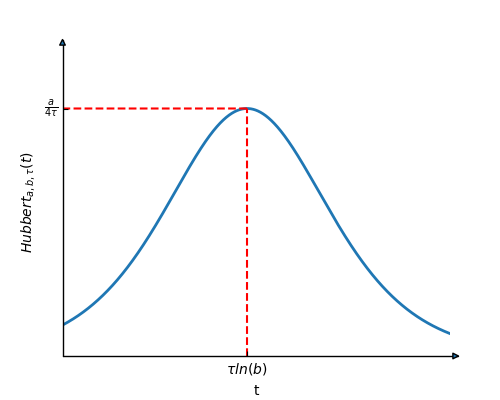
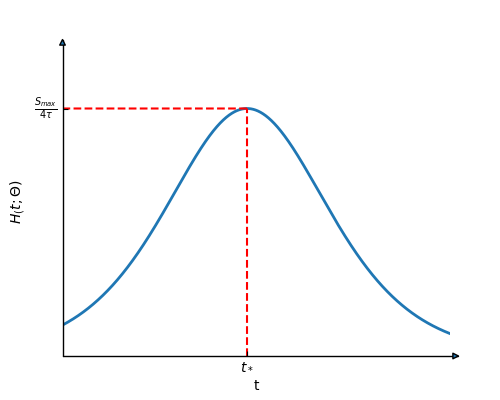
illustrations, encore et toujours
- n sigmoides
- légende corrigée et uniformisée
- test des performances sur données bruitées modifié pour que le bruit soit proportionnel à Smax

diff --git a/python/test_functions.py b/python/test_functions.py
@@ -55,6 +55,53 @@ def plot_noised_sigmoide(noise,Qmax=100, ts=30, tau=6, t_start=0, t_end=60):
 
 
 
+def plot_nSigmoides(n):
+    t               = np.linspace(0, 60, 1000)
+    
+    # sigs
+    plt.subplot(221)
+    for i in range(1, n+1, 1):
+        args = [perfect_args_gen[k] / i for k in range(3)]
+        plt.plot(t, sigmoide(t, args))#, label = f"Sigmoïdes n°{i}")
+    plt.ylabel("Production totale (L)")
+    # plt.legend()
+        
+    # hubbert curvess
+    plt.subplot(223)
+    for i in range(1, n+1, 1):
+        plt.plot(t, hubbert(t, [perfect_args_gen[k] / i for k in range(3)]))#, label = f"Courbe de Hubbert n°{i}")
+    plt.ylabel("Production (L)")
+    plt.xlabel("Temps (années)")
+    # plt.legend()
+        
+    # cumulated sigs
+    plt.subplot(222)
+    cumu_sig = [ 0 for k in range(len(t))]
+    for i in range(1, n+1, 1):
+        cumu_sig = [ cumu_sig[k] + sigmoide(t[k], [perfect_args_gen[k] / i for k in range(3)]) for k in range(len(t))]
+    plt.plot(t, cumu_sig, label = "Sigmoïdes cumulées")
+    plt.legend()
+    
+    # cumulated hubbert's curves
+    plt.subplot(224)
+    cumu_hub = [ 0 for k in range(len(t))]
+    for i in range(1, n+1, 1):
+        cumu_hub = [ cumu_hub[k] + hubbert(t[k], [perfect_args_gen[k] / i for k in range(3)]) for k in range(len(t))]
+    plt.plot(t, cumu_hub, label = "Courbes de Hubbert cumulées")
+    plt.xlabel("Temps (années)")
+    plt.legend()
+    
+    # display plot
+    plt.show()
+    
+    
+    
+    return
+# ======== nSigmoides test ====================================================
+plot_nSigmoides(3)
+# =============================================================================
+
+
 def test_least_square(Qmax=100, ts=30, tau=6, t_start=0, t_end=60):
     t       = np.linspace(t_start, t_end, 10000)
     sig     = sigmoide(t, (Qmax, ts, tau))
@@ -150,37 +197,39 @@ def test_grad_least_square(delta, Qmax=100, ts=10, tau=6, t_start=0, t_end=50):
 def plot_isocurve_Qmax_fixed(percentage, Qmax=1, ts_init=50, tau_init=6, t_start=0, t_end=200):
 
     # Sigmoide
-    t = np.arange(t_start, t_end, 1)
-    sig = sigmoide(t, (Qmax, ts_init, tau_init))
+    t               = np.arange(t_start, t_end, 1)
+    sig             = sigmoide(t, (Qmax, ts_init, tau_init))
 
     # window of value
-    n = 10**2
-    L_ts = np.linspace((1-percentage)*ts_init,(1+percentage)*ts_init,n)
-    L_tau = np.linspace(np.clip((1-percentage)*tau_init,0.1,(1-percentage)*tau_init),(1+percentage)*tau_init,n)
+    n               = 10**2
+    L_ts            = np.linspace((1-percentage)*ts_init,(1+percentage)*ts_init,n)
+    L_tau           = np.linspace(np.clip((1-percentage)*tau_init,0.1,(1-percentage)*tau_init),(1+percentage)*tau_init,n)
 
     # Matrix of potential
-    M = np.zeros((n,n))
+    M               = np.zeros((n,n))
 
     for i,ts in enumerate(L_ts):
         for j,tau in enumerate(L_tau):
-            M[i,j] = least_square(sig, t_start, 1, sigmoide, (Qmax, ts, tau))
+            
+            M[i,j]          = least_square(sig, t_start, 1, sigmoide, (Qmax, ts, tau))
 
     # Number of isocurve
-    N_isocurve = least_square
+    N_isocurve      = least_square
 
-    potentials = [M[k*(n//2)//N_isocurve +n//2-1,n//2] for k in range(N_isocurve)]
+    potentials      = [ M [ k * ( n // 2 )  //  N_isocurve + n  //  2-1, n // 2] for k in range(N_isocurve)]
 
-    np.sort([M[n//2,n//2]] + potentials)
+    np.sort([ M [ n // 2, n // 2] ] + potentials)
 
-    Isocurve_i = [[] for _ in range(N_isocurve)]
+    Isocurve_i      = [[] for _ in range(N_isocurve)]
 
-    Isocurve_j = [[] for _ in range(N_isocurve)]
+    Isocurve_j      = [[] for _ in range(N_isocurve)]
 
     # Seeking for isocurve
     for i in range(n):
         for j in range(n):
             for k,potential in enumerate(potentials[1:]):
-                if abs(M[i,j]-potential)<(potentials[k+1]-potentials[k])*2*N_isocurve/n:
+                
+                if abs( M[i,j] - potential ) < ( potentials[k+1] - potentials[k])*2*N_isocurve/n:
                     Isocurve_i[k].append(L_tau[i])  # y coordinate of the point of the isocurve
                     Isocurve_j[k].append(L_ts[j])   # x coordinate
 
@@ -492,7 +541,7 @@ def testPerf_NoisedData(perfect_args, noise_steps = 8, noise_dt = 25, argsDelta_
             
     return time_results, criterion_results
 # ==================== test testPerf_NoisedData() =============================
-testPerf_NoisedData(perfect_args_gen, noise_steps = 10, noise_dt = 0.1, argsDelta_steps = 1, argsDelta_dt = 0.1, optiFunc = descentScaled, average_of = 1)
+# testPerf_NoisedData(perfect_args_gen, noise_steps = 10, noise_dt = 0.1, argsDelta_steps = 1, argsDelta_dt = 0.1, optiFunc = descentScaled, average_of = 1)
 # =============================================================================
 
 
@@ -1062,8 +1111,12 @@ def save_Model(name, data, theta, anticipation = 0):
 
 # =================== test noise variable =====================================
 # for n in range( 0, 4, 1):
-#     save_Model(f"noise{n}", noised_sigmoide(n) , perfect_args_gen , anticipation = 40)
+#     save_Model(f"noise{n}", noised_sigmoide(n * ( 0.01 * perfect_args_gen[1])) , perfect_args_gen , anticipation = 40)
 # =============================================================================
+
+
+
+
 
 def test_Model_onNoisedData(perfect_args, noise_steps = 3, noise_dt = 10, anticipation_steps = 3, anticipation_dt = 1, optiFunc = descentScaled):
 # =============================================================================

diff --git a/script/illustration.py b/script/illustration.py
@@ -3,6 +3,7 @@ import numpy as np
 import matplotlib.pyplot as plt
 from mpl_toolkits.axes_grid.axislines import SubplotZero
 from funcs import Hubbert_curve,Q
+from functions import sigmoide, Hubbert
 
 # Define initial parameters
 global tau, a, b, N, tmin, tmax, t, Qmax, tmid
@@ -86,8 +87,8 @@ def plotHubbert(hideScale=True):
         ax.set_xticklabels([])
 
     # titles the axis
-    plt.xlabel("x")
-    plt.ylabel(r"$H(x)$")
+    plt.xlabel("t")
+    plt.ylabel(r"$H(t)$")
         
     # Plots the curve
     line, = plt.plot(t, H(t-tmin, (a, b, tau)), lw=2)
@@ -111,8 +112,8 @@ def plotHubbertAnnote(hideScale=False):
     ax = SubplotZero(fig, 111)
     fig.add_subplot(ax)
     
-    plt.xticks([tmid],[r'$\tau ln(b)$'])
-    plt.yticks([Hmax],[r'$\frac{a}{4 \tau }$'], fontsize='xx-large') # fontsize ne change rien au latex
+    plt.xticks([tmid],[r'$t_*$'])
+    plt.yticks([Hmax],[r'$\frac{S_{max}}{4 \tau }$'], fontsize='xx-large') # fontsize ne change rien au latex
     ax.tick_params(axis='both', which='minor', labelsize='large') # Ne change rien
     
     for direction in ["right", "top"]:
@@ -124,7 +125,7 @@ def plotHubbertAnnote(hideScale=False):
     
     # titles the axis
     plt.xlabel("t")
-    plt.ylabel(r"$Hubbert_{a,b,\tau}(t)$")
+    plt.ylabel(r"$H_(t ; \Theta )$")
     
     # turns off axis numbers if desired
     if hideScale:
@@ -221,8 +222,8 @@ def plotSigmoide(hideScale=True):
         ax.set_xticklabels([])
     
     # titles the axis
-    plt.xlabel("x")
-    plt.ylabel(r"$S(x)$")
+    plt.xlabel("t")
+    plt.ylabel(r"$S(t)$")
         
     # Plots the curve
     line, = plt.plot(t, S(t-tmin, (Qmax, tmid, tau)), lw=2)
@@ -254,7 +255,7 @@ def plotSigmoideAnnote(hideScale=False):
     
     # titles the axis
     plt.xlabel("t")
-    plt.ylabel(r"$Sigmoide_{S_{max},t_*,\tau}(t)$")
+    plt.ylabel(r"$S(t; \Theta )$")
         
     # Plots the curve
     line, = plt.plot(t, S(t-tmin, (Qmax, tmid, tau)), lw=2)
@@ -288,8 +289,10 @@ def delta(x): # tangente à la sigmoide au point d'inflexion
     global tau, a, b, N, tmin, tmax, t, Qmax, tmid
     return Hubbert_curve(tmid,(a,b,tau))*(x-tmid)+(Qmax/2) # tangente de f en a = f'(a)*(x-a)+f(a) 
 
-#plotHubbert()
-#plotSigmoide()
+
+
+# plotHubbert()
+# plotSigmoide()
 
 plotHubbertAnnote()
 # plotSigmoideAnnote()
